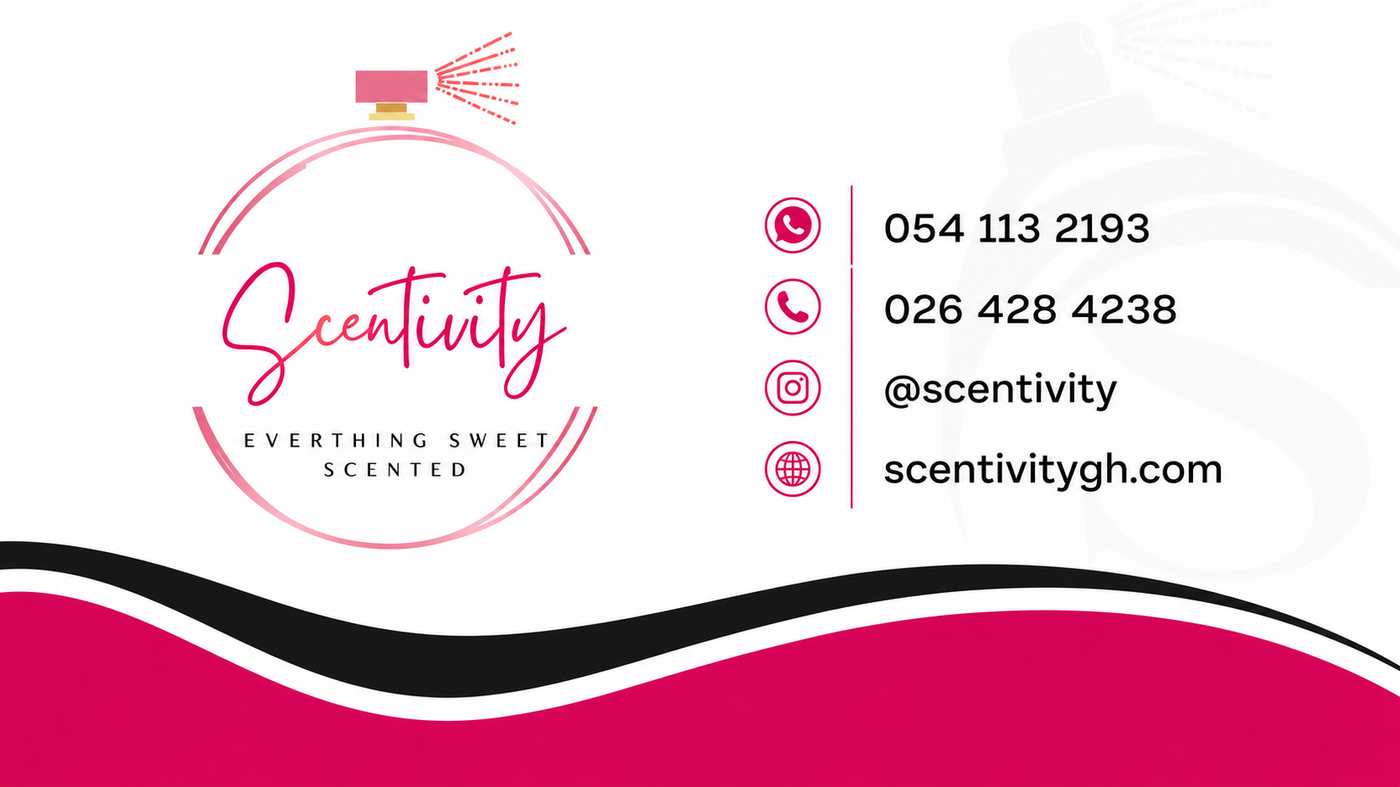
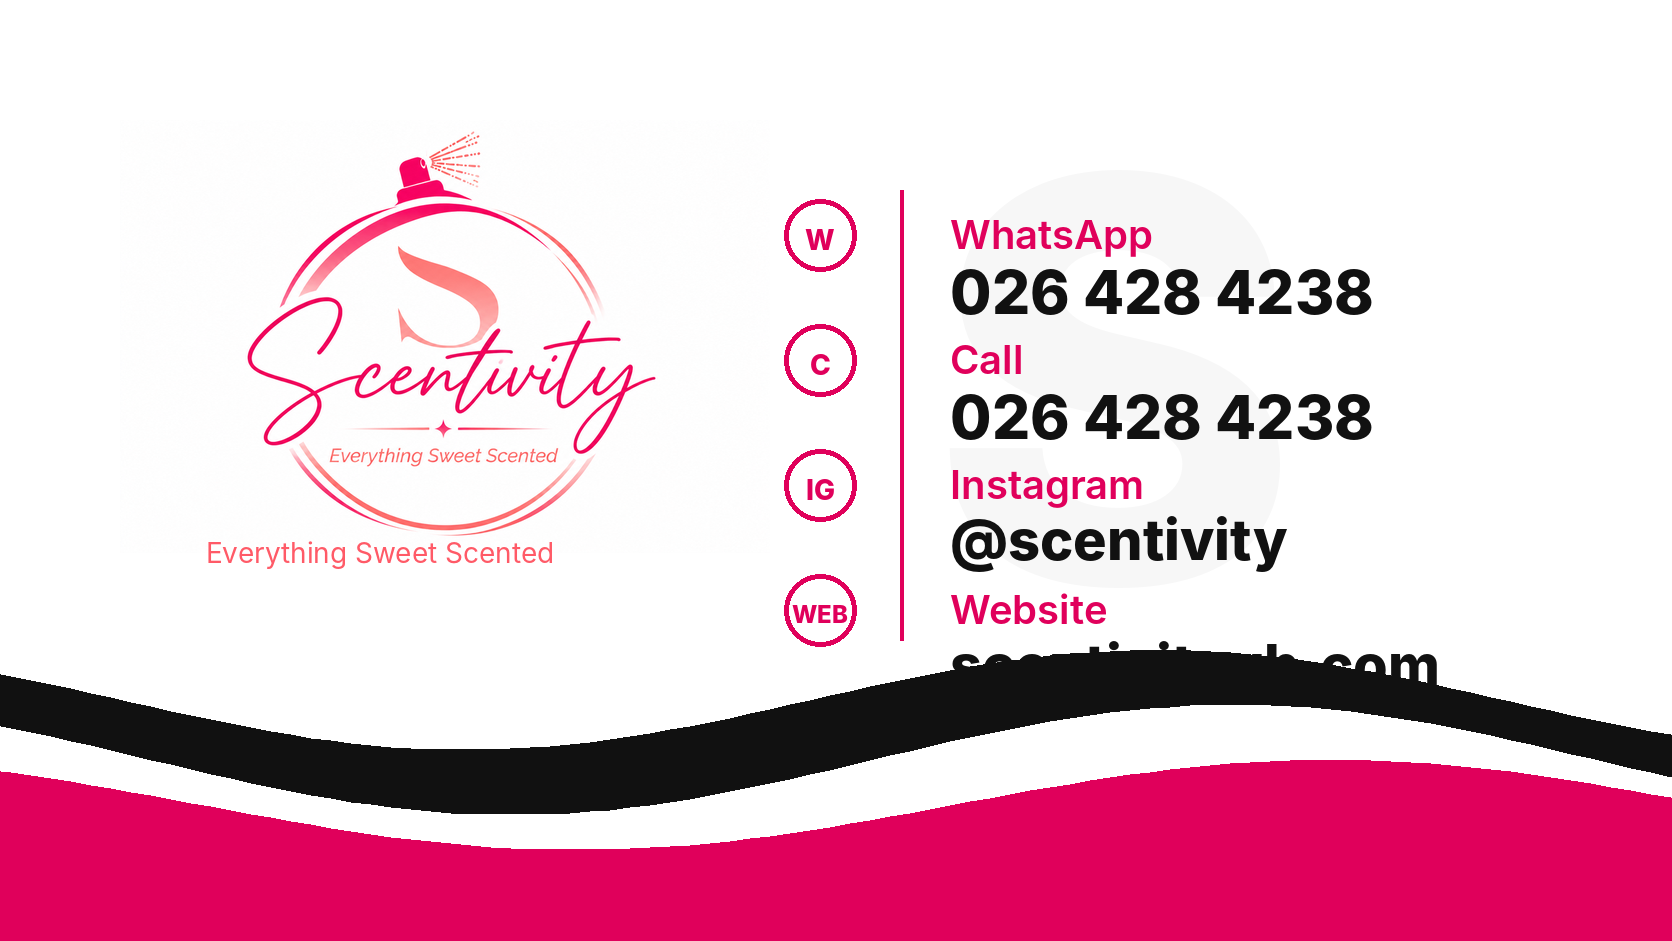
Add files via upload
whatsapp update

diff --git a/index.html b/index.html
@@ -23,7 +23,7 @@
       <a href="#about">About</a>
       <a href="#order">Order</a>
       <a href="#contact">Contact</a>
-      <a href="https://wa.me/233541132193" target="_blank" rel="noreferrer">WhatsApp</a>
+      <a href="https://wa.me/233264284238" target="_blank" rel="noreferrer">WhatsApp</a>
     </nav>
   </header>
 
@@ -35,7 +35,7 @@
         <p class="hero-text">Scentivity offers ladies' perfumes, fragrance oils, body mists, and gift-ready scents for everyday freshness, special occasions, and thoughtful gifting.</p>
         <div class="hero-actions">
           <a class="btn primary" href="#products">Shop perfumes</a>
-          <a class="btn ghost" href="https://wa.me/233541132193" target="_blank" rel="noreferrer">Order on WhatsApp</a>
+          <a class="btn ghost" href="https://wa.me/233264284238" target="_blank" rel="noreferrer">Order on WhatsApp</a>
         </div>
         <div class="trust-row" aria-label="Business highlights">
           <span>Everything Sweet Scented</span>
@@ -178,7 +178,7 @@
         <h2>Ready to smell unforgettable?</h2>
         <p>Need help choosing a fragrance, arranging pickup, or confirming delivery? Contact Scentivity through WhatsApp, phone, Instagram, or the website.</p>
         <div class="contact-list">
-          <a href="https://wa.me/233541132193" target="_blank" rel="noreferrer">WhatsApp: 054 113 2193</a>
+          <a href="https://wa.me/233264284238" target="_blank" rel="noreferrer">WhatsApp: 026 428 4238</a>
           <a href="tel:+233264284238">Call: 026 428 4238</a>
           <a href="https://instagram.com/scentivity" target="_blank" rel="noreferrer">Instagram: @scentivity</a>
           <a href="https://scentivitygh.com" target="_blank" rel="noreferrer">Website: scentivitygh.com</a>
@@ -216,7 +216,7 @@
       <a href="#products">Shop</a>
       <a href="#about">About</a>
       <a href="#contact">Contact</a>
-      <a href="https://wa.me/233541132193" target="_blank" rel="noreferrer">WhatsApp</a>
+      <a href="https://wa.me/233264284238" target="_blank" rel="noreferrer">WhatsApp</a>
     </nav>
     <p class="copyright">© <span id="year"></span> Scentivity. All rights reserved.</p>
   </footer>

diff --git a/thank-you.html b/thank-you.html
@@ -11,10 +11,10 @@
     <div>
       <p class="eyebrow">Message received</p>
       <h1 style="font-size: clamp(3rem, 7vw, 6rem);">Thank you.</h1>
-      <p class="hero-text" style="margin-left: auto; margin-right: auto;">Scentivity has received your message and will respond as soon as possible. You can also contact us on WhatsApp: 054 113 2193.</p>
+      <p class="hero-text" style="margin-left: auto; margin-right: auto;">Scentivity has received your message and will respond as soon as possible. You can also contact us on WhatsApp: 026 428 4238.</p>
       <div class="hero-actions" style="justify-content: center;">
         <a class="btn primary" href="/">Return home</a>
-        <a class="btn ghost" href="https://wa.me/233541132193" target="_blank" rel="noreferrer">Message on WhatsApp</a>
+        <a class="btn ghost" href="https://wa.me/233264284238" target="_blank" rel="noreferrer">Message on WhatsApp</a>
       </div>
     </div>
   </main>

diff --git a/script.js b/script.js
@@ -43,7 +43,7 @@ const fallbackProducts = [
 
 let products = [...fallbackProducts];
 
-const SCENTIVITY_WHATSAPP = '233541132193';
+const SCENTIVITY_WHATSAPP = '233264284238';
 
 function buildWhatsAppLink(message) {
   return `https://wa.me/${SCENTIVITY_WHATSAPP}?text=${encodeURIComponent(message)}`;

diff --git a/WHATSAPP_NUMBER_UPDATE_NOTES.md b/WHATSAPP_NUMBER_UPDATE_NOTES.md
@@ -1,0 +1,9 @@
+# WhatsApp number update
+
+This version updates all WhatsApp buttons and prefilled product inquiry links to use the same number as the call line:
+
+- WhatsApp: 026 428 4238
+- Call: 026 428 4238
+- WhatsApp URL: https://wa.me/233264284238
+
+The older 054 113 2193 number has been removed from visible WhatsApp links and public contact sections to avoid confusion.

diff --git a/SCENTIVITY_UPDATE_NOTES.md b/SCENTIVITY_UPDATE_NOTES.md
@@ -4,7 +4,7 @@ This updated version includes:
 
 - Fused Scentivity logo based on the provided brand images.
 - Contact details updated to:
-  - WhatsApp: 054 113 2193
+  - WhatsApp: 026 428 4238
   - Call: 026 428 4238
   - Instagram: @scentivity
   - Website: scentivitygh.com

diff --git a/README.md b/README.md
@@ -15,7 +15,7 @@ This version includes:
 
 ## Current Business Details Used
 
-- WhatsApp: `054 113 2193`
+- WhatsApp: `026 428 4238`
 - Phone: `026 428 4238`
 - Instagram: `@scentivity`
 - Website: `scentivitygh.com`
